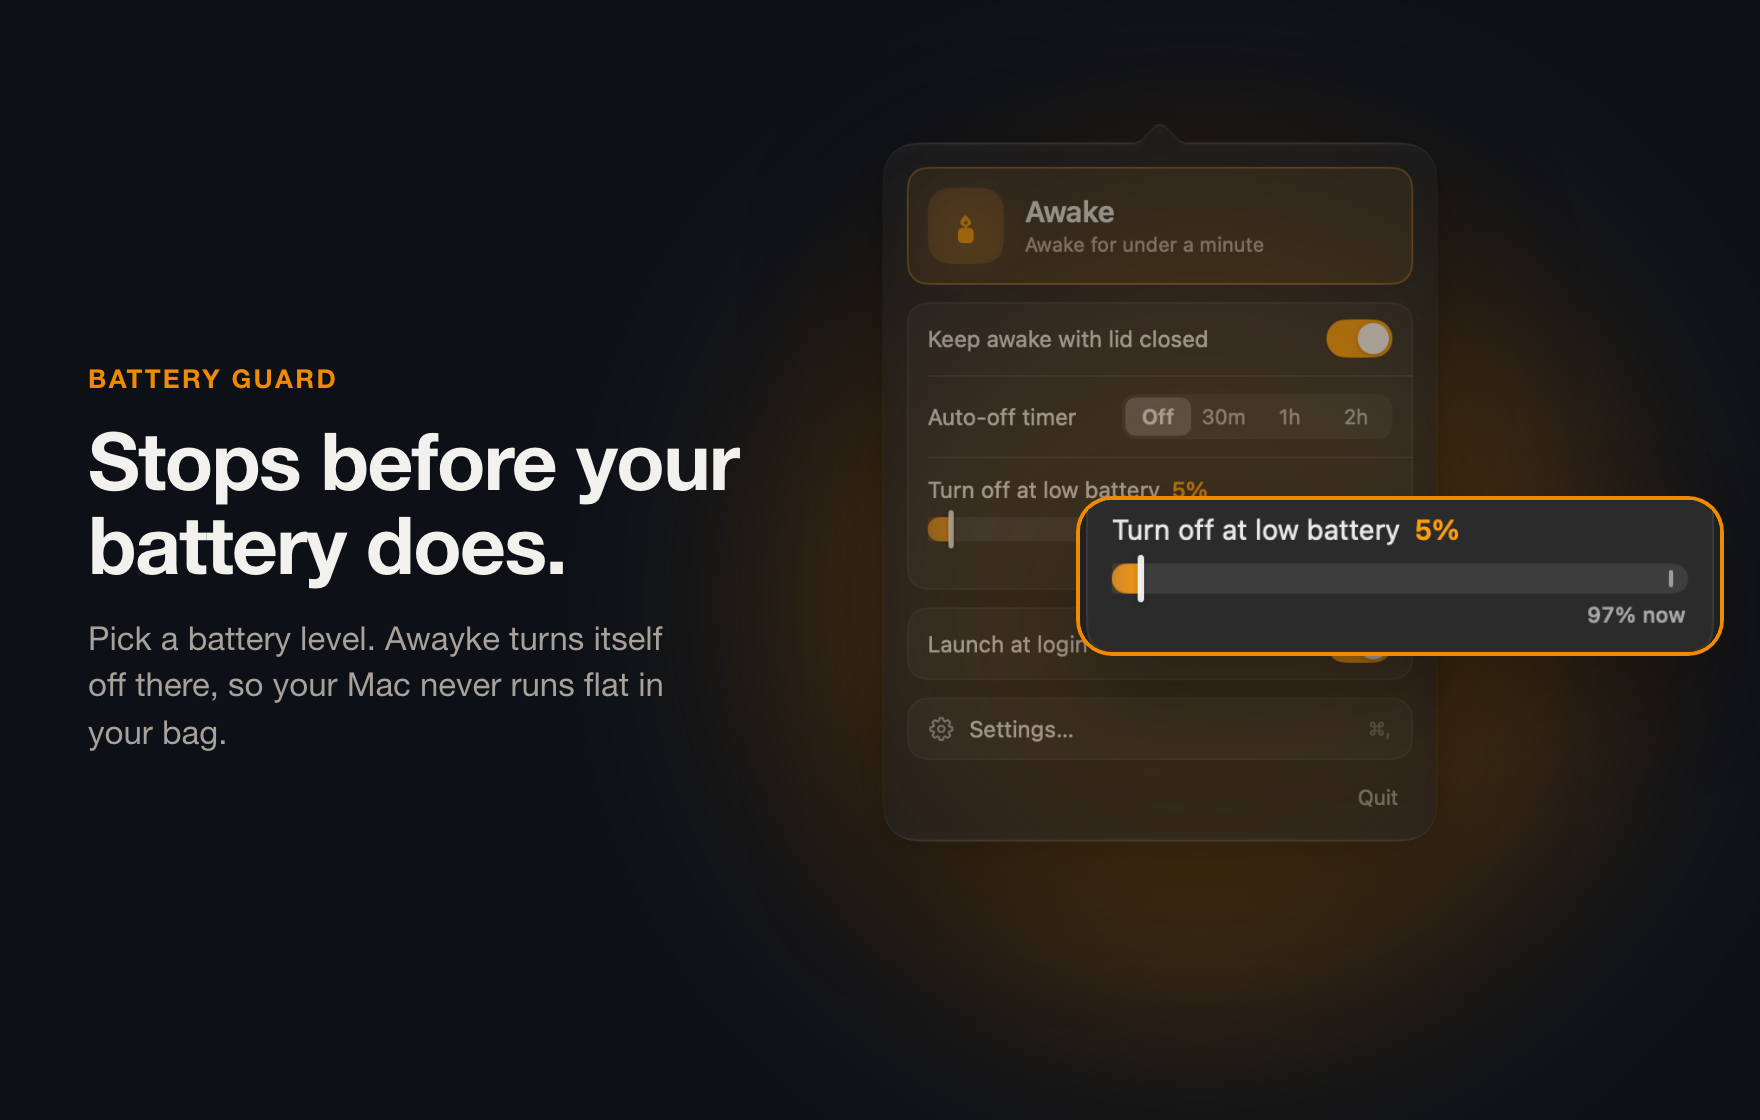
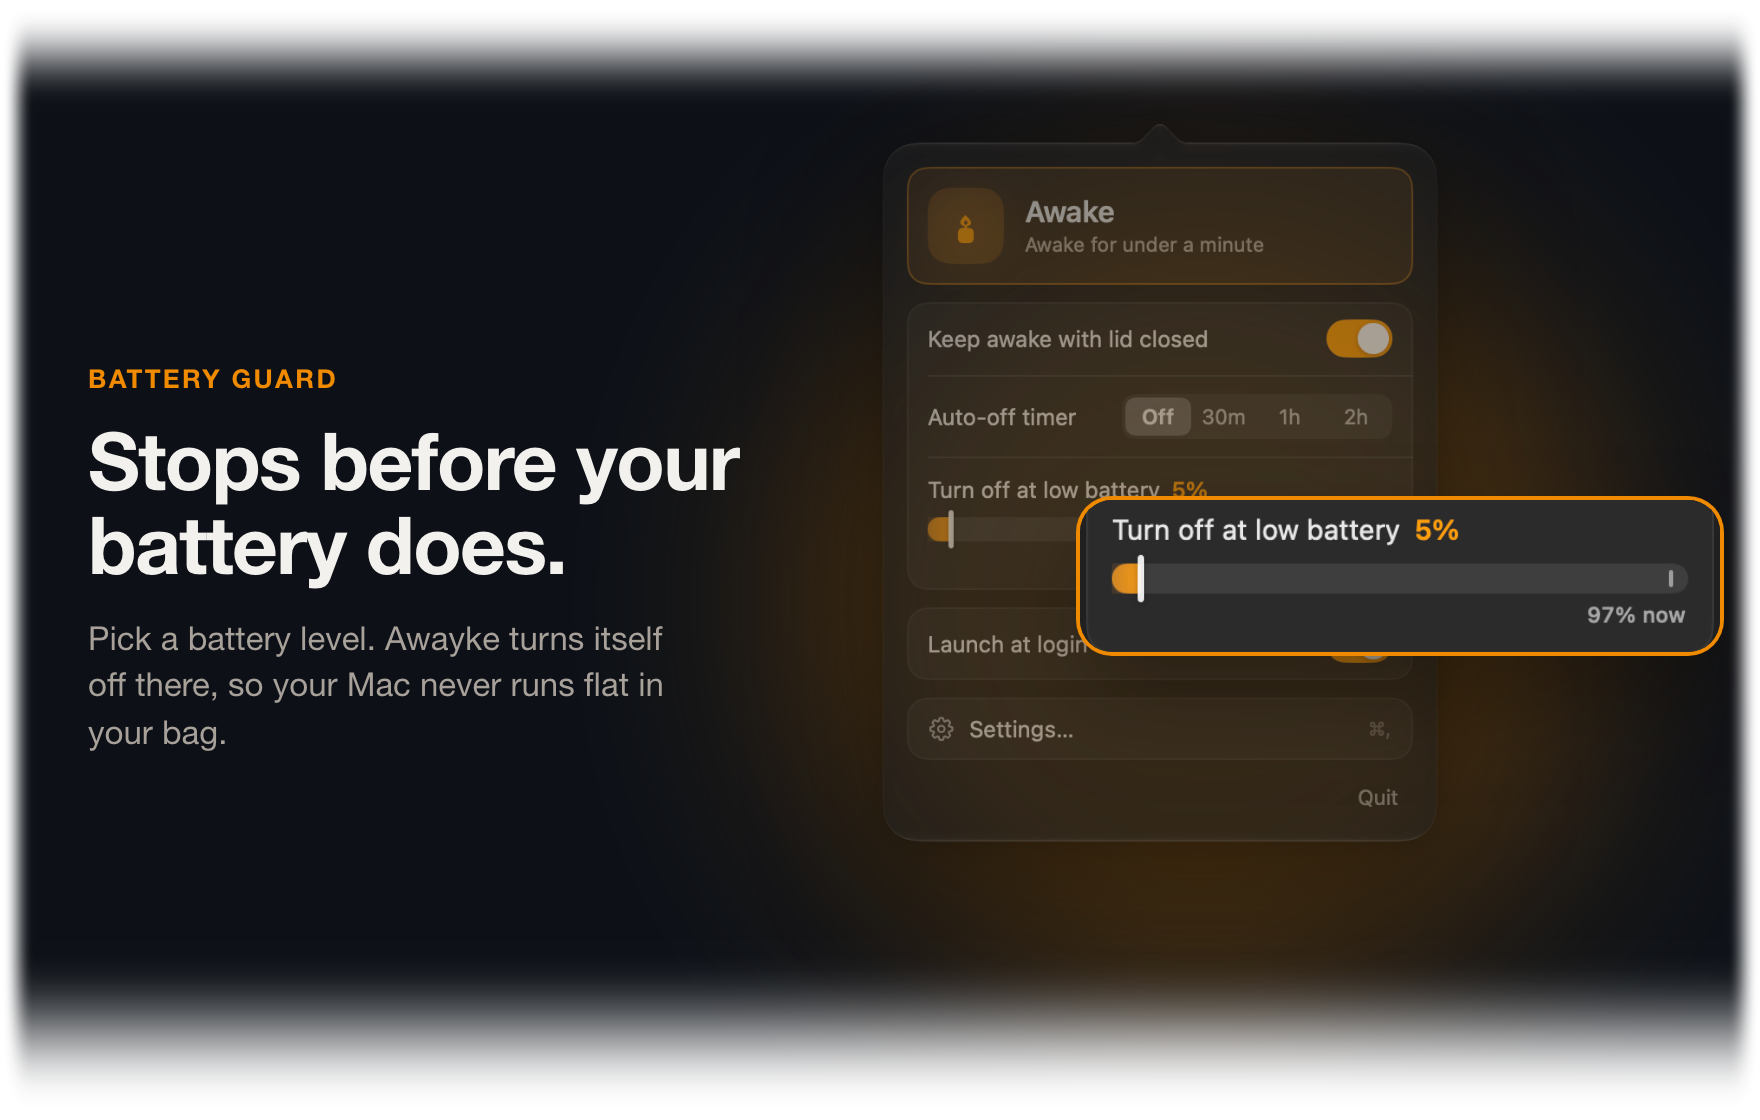
fix: feather showcase picture edges so they fade into the page

Changed region(s): [[0.0, 0.0, 1.0, 1.0]]

diff --git a/docs/index.html b/docs/index.html
@@ -11,7 +11,7 @@
 <meta property="og:title" content="Awayke">
 <meta property="og:description" content="Keep your MacBook awake with the lid closed. One click in the menu bar. Free for Mac.">
 <meta property="og:type" content="website">
-<meta property="og:image" content="showcase/aw-1-light.png">
+<meta property="og:image" content="showcase/aw-og.png">
 <link rel="icon" type="image/png" href="img/icon.png">
 <link rel="apple-touch-icon" href="img/icon.png">
 <style>
@@ -192,6 +192,8 @@
     *, *::before, *::after { animation: none !important; transition: none !important; scroll-behavior: auto !important; }
     .js .reveal { opacity: 1; transform: none; }
   }
+  /* showcase pictures fade softly into the page (edges are feathered in the image itself) */
+  img[src*="showcase/"] { border-radius: 0 !important; box-shadow: none !important; }
 </style>
 </head>
 <body>
